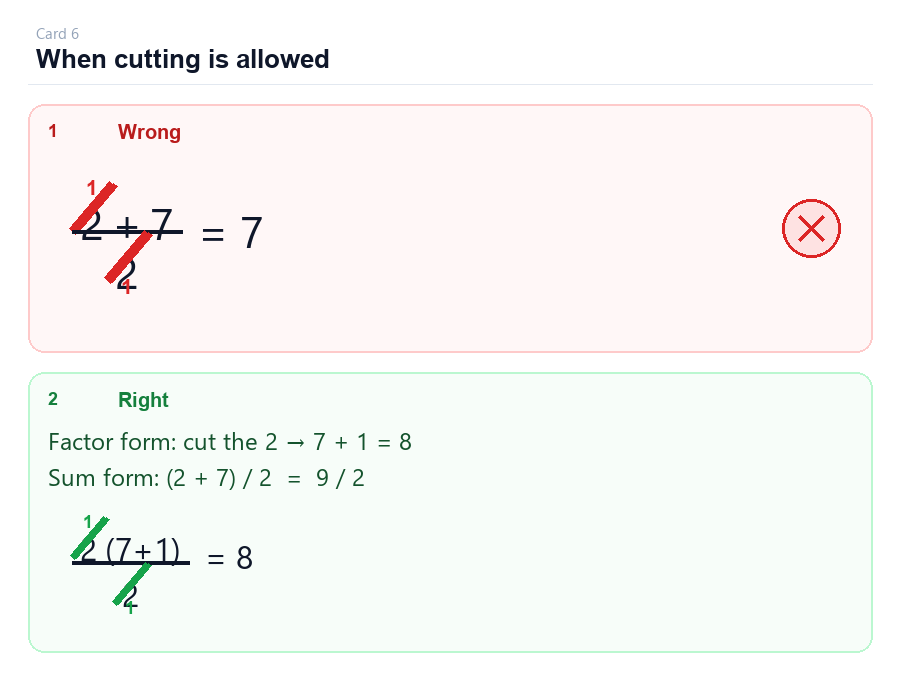
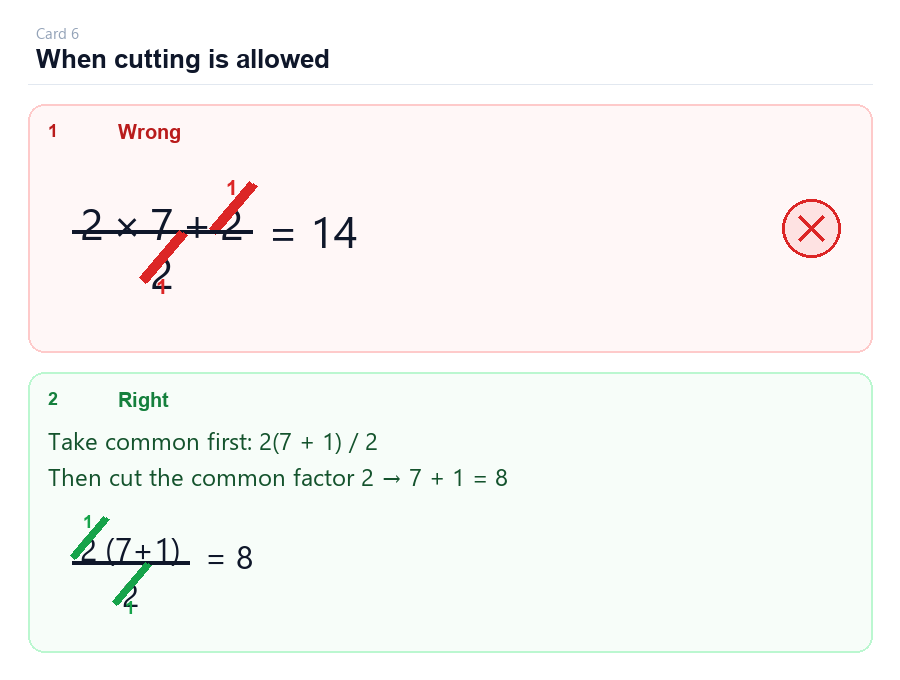
Card 6 Wrong: show (2×7+2)/2 with illegal single-2 cut.
Students must take the common factor first; cutting one lone 2 and claiming 14 is the trap.

diff --git a/samples/fraction-simplification-cards/build_cards.py b/samples/fraction-simplification-cards/build_cards.py
@@ -241,13 +241,13 @@ CARDS = [
         "id": 6,
         "title": "When cutting is allowed",
         "level": "Class 6–7",
-        "hook_plain": "2(7+1)/2 vs (2+7)/2",
-        "wrong_cancel": "Illegal cancel in a sum vs legal cancel of a factor.",
-        "why": "Cancel only a common FACTOR of the whole top. 2(7+1)/2 → 8 is legal. (2+7)/2 cannot cancel the 2.",
+        "hook_plain": "(2×7+2)/2",
+        "wrong_cancel": "Cut only one lone 2 → claim 14 (did not take common factor).",
+        "why": "First take common: 2(7+1)/2 = 8. Cutting one single 2 from (2×7+2)/2 is illegal — both 2s belong to the common factor.",
         "steps": [
-            (True, "2(7+1)/2 → cancel factor 2 → 8"),
-            (False, "(2+7)/2 → cancel the 2 → 7"),
-            (True, "(2+7)/2 = 9/2"),
+            (True, "Take common: 2(7+1)/2 → cut 2 → 8"),
+            (False, "Cut one 2 from (2×7+2)/2 → claim 14"),
+            (True, "Expand first: 14+2=16, then 16/2 = 8"),
             (True, "2(7+1)/2 = 16/2 = 8"),
         ],
         "options": [
@@ -257,22 +257,23 @@ CARDS = [
             "Only step (2) is correct",
         ],
         "correct_index": 1,
-        "answer_value": "8 vs 9/2",
+        "answer_value": "8",
         "difficulty": "Medium",
         "visual": {
-            "wrong_num": [("2", True, "1"), ("+", False), ("7", False)],
+            # Wrong: cut one lone +2 with den 2 → claim 2×7 = 14 (skipped taking common).
+            "wrong_num": [("2", False), ("×", False), ("7", False), ("+", False), ("2", True, "1")],
             "wrong_den": ("2", True, "1"),
-            "wrong_result": "= 7",
+            "wrong_result": "= 14",
             "legal_num": [("2", True, "1"), ("(7+1)", False)],
             "legal_den": ("2", True, "1"),
             "legal_result": "= 8",
-            "right_a": "Factor form: cut the 2 → 7 + 1 = 8",
-            "right_b": "Sum form: (2 + 7) / 2  =  9 / 2",
+            "right_a": "Take common first: 2(7 + 1) / 2",
+            "right_b": "Then cut the common factor 2 → 7 + 1 = 8",
             "checks": [
-                ("(1)", None, None, "factor form: cut 2 → (7+1)=8", True),
-                ("(2)", None, None, "cut 2 in the sum (2+7)/2 → claim 7", False),
-                ("(3)", None, None, "sum first: (2+7)=9, then 9/2", True),
-                ("(4)", None, None, "expand: 2(7+1)=16, then 16/2 = 8", True),
+                ("(1)", None, None, "take common: 2(7+1)/2, cut 2 → 8", True),
+                ("(2)", None, None, "cut one lone 2 from (2×7+2)/2 → claim 14", False),
+                ("(3)", None, None, "expand first: 2×7+2=16, then 16/2 = 8", True),
+                ("(4)", None, None, "2(7+1)=16, then 16/2 = 8", True),
             ],
         },
     },

diff --git a/samples/fraction-simplification-cards/TEACHER_GUIDE.md b/samples/fraction-simplification-cards/TEACHER_GUIDE.md
@@ -48,10 +48,10 @@ Figures show **notebook-style cutting** (diagonal strike-through) on cancelled n
 
 ## Card 6. When cutting is allowed (Class 6–7)
 
-- **Hook:** `2(7+1)/2 vs (2+7)/2`
-- **Wrong cancel:** Illegal cancel in a sum vs legal cancel of a factor.
-- **Why:** Cancel only a common FACTOR of the whole top. 2(7+1)/2 → 8 is legal. (2+7)/2 cannot cancel the 2.
-- **Result:** `8 vs 9/2`
+- **Hook:** `(2×7+2)/2`
+- **Wrong cancel:** Cut only one lone 2 → claim 14 (did not take common factor).
+- **Why:** First take common: 2(7+1)/2 = 8. Cutting one single 2 from (2×7+2)/2 is illegal — both 2s belong to the common factor.
+- **Result:** `8`
 - **MCQ:** `Steps (1), (3) and (4) are correct; (2) is wrong`
 
 ## Card 7. Algebra — split (Class 7–8)
